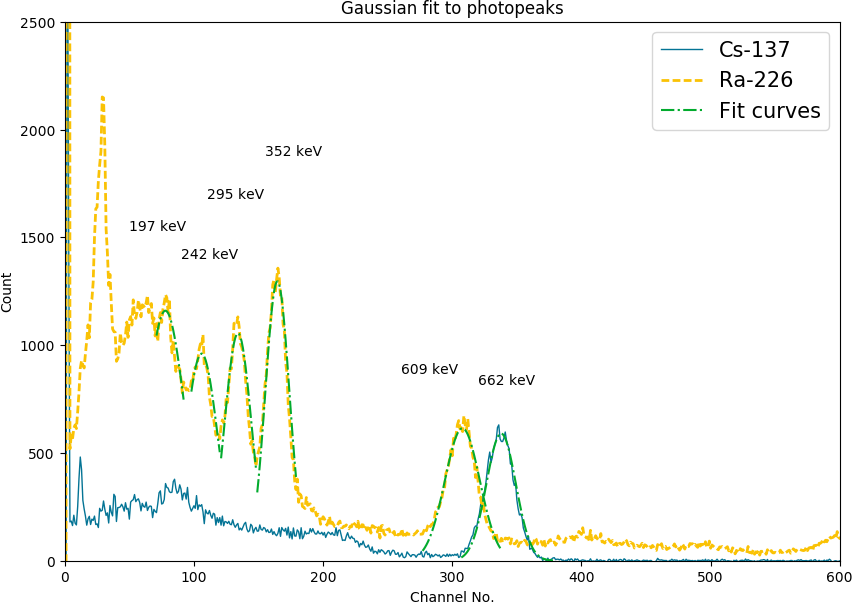
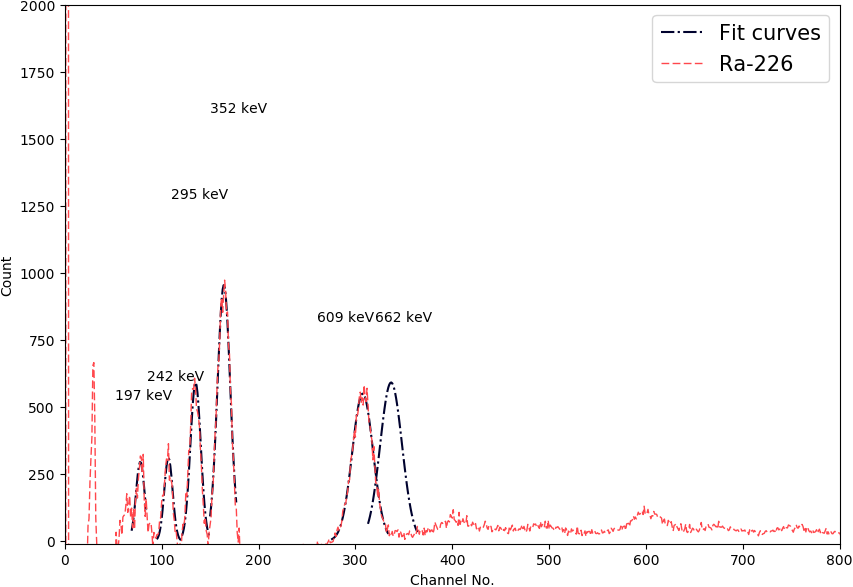
New attenuation fits, chi-squared, modified plots

diff --git a/calibration.py b/calibration.py
@@ -5,6 +5,7 @@ import scipy as sp
 from scipy.optimize import curve_fit
 from scipy.stats import linregress
 
+plt.rcParams.update({'font.size': 15})
 
 N = 1011
 x = np.arange(N)
@@ -68,43 +69,59 @@ ra_params6c, ra_param_covar6c = curve_fit(gaussian, ra_x6, Radium_clean[radium_s
 unknown_params_1, unknown_covar_1 = curve_fit(gaussian, un_x1, Unknown[unknown_1], p0 = [65., 210,1.])
 unknown_params_2, unknown_covar_2 = curve_fit(gaussian, un_x2, Unknown[unknown_2], p0 = [65., 550,1.])
 
+print ra_params6c
+
+###Errors for curve fits
+err_ce1 = np.sqrt(np.diag(abs(ce_param_covar1c)))   #Gives 1 standard deviation error of fit parameters
+err_ra1 = np.sqrt(np.diag(abs(ra_param_covar1c)))
+err_ra2 = np.sqrt(np.diag(abs(ra_param_covar2c)))
+err_ra3 = np.sqrt(np.diag(abs(ra_param_covar3c)))
+err_ra4 = np.sqrt(np.diag(abs(ra_param_covar4c)))
+err_ra5 = np.sqrt(np.diag(abs(ra_param_covar5c)))
+err_ra6 = np.sqrt(np.diag(abs(ra_param_covar6c)))
+
+#print err_ce1
+
+###Create lists of Gaussian fit errors
+Gaussian_fit_errors = [t for t in zip(err_ra6, err_ce1, err_ra1, err_ra2, err_ra3,err_ra4, err_ra5)[:3]]
+
+print Gaussian_fit_errors
 
 #print ra_params6c
-###Errors for curve fits
-perr = np.sqrt(np.diag(abs(ce_param_covar1c)))   #Gives 1 standard deviation error of fit parameters
+
 
 #print perr
 #print ce_params1c
 
 plt.figure(figsize=(10,7))
 plt.plot(x2, gaussian(x2, *ce_params1c), color = '#2c6fbb',  linestyle = '-.', label='Fit curves')
-#plt.plot(ra_x1, gaussian(ra_x1, *ra_params1c), color = '#2c6fbb', linestyle = '-.')
-#plt.plot(ra_x2, gaussian(ra_x2, *ra_params2c), color = '#2c6fbb', linestyle = '-.')
-#plt.plot(ra_x3, gaussian(ra_x3, *ra_params3c), color = '#2c6fbb', linestyle = '-.')
-#plt.plot(ra_x4, gaussian(ra_x4, *ra_params4c), color = '#2c6fbb', linestyle = '-.')
-#plt.plot(ra_x5, gaussian(ra_x5, *ra_params5c), color = '#2c6fbb', linestyle = '-.')
-#plt.plot(ra_x6, gaussian(ra_x6, *ra_params6c), color = '#2c6fbb', linestyle = '-.')
+plt.plot(ra_x1, gaussian(ra_x1, *ra_params1c), color = '#2c6fbb', linestyle = '-.')
+plt.plot(ra_x2, gaussian(ra_x2, *ra_params2c), color = '#2c6fbb', linestyle = '-.')
+plt.plot(ra_x3, gaussian(ra_x3, *ra_params3c), color = '#2c6fbb', linestyle = '-.')
+plt.plot(ra_x4, gaussian(ra_x4, *ra_params4c), color = '#2c6fbb', linestyle = '-.')
+plt.plot(ra_x5, gaussian(ra_x5, *ra_params5c), color = '#2c6fbb', linestyle = '-.')
+plt.plot(ra_x6, gaussian(ra_x6, *ra_params6c), color = '#2c6fbb', linestyle = '-.')
 
 #plt.plot(un_x1, gaussian(un_x1, *unknown_params_1), color = '#02ab2e', linestyle = '-.')
 #plt.plot(un_x2, gaussian(un_x2, *unknown_params_2), color = '#02ab2e', linestyle = '-.')
 #plt.plot(un_x1, Unknown[unknown_1])
-plt.plot(x, Unknown, linewidth=1)
+#plt.plot(x, Unknown, linewidth=1)
 #plt.plot(x, exponential(x, 3500, 0.0145, 0))
-plt.annotate('1120 keV', xy=(535, 140), xytext=(535, 140))
-plt.annotate('662 keV', xy=(320, 820), xytext=(320, 820))
-plt.annotate('609 keV', xy=(260, 820), xytext=(260, 820))
-plt.annotate('352 keV', xy=(130, 1600), xytext=(130, 1600))
-plt.annotate('295 keV', xy=(95, 1150), xytext=(95, 1150))
-plt.annotate('242 keV', xy=(80, 600), xytext=(80, 600))
-plt.annotate('197 keV', xy=(40, 515), xytext=(40, 515))
-#plt.plot(x, Radium_clean, linewidth=1, color = '#fec615', linestyle = '--', label='Ra-226')
-#plt.plot(x, Cesium_clean, linewidth=1, color = '#ff474c', label='Cs-137')
+plt.annotate('662 keV', xy=(320, 920), xytext=(320, 920))
+plt.annotate('1120 keV', xy=(535, 240), xytext=(535, 240))
+plt.annotate('609 keV', xy=(240, 920), xytext=(240, 920))
+plt.annotate('352 keV', xy=(120, 1580), xytext=(120, 1580))
+plt.annotate('295 keV', xy=(80, 1200), xytext=(80, 1200))
+plt.annotate('242 keV', xy=(50, 700), xytext=(50, 700))
+plt.annotate('197 keV', xy=(30, 490), xytext=(30, 490))
+plt.plot(x, Radium_clean, linewidth=1, color = '#fec615', linestyle = '--', label='Ra-226')
+plt.plot(x, Cesium_clean, linewidth=1, color = '#ff474c', label='Cs-137')
 plt.xlim([0,600])
-plt.ylim([0, 3000])
+plt.ylim([0, 2500])
 plt.xlabel("Channel No.")
 plt.ylabel("Count")
 plt.legend(loc=1, prop={'size': 15})
-#plt.savefig("Gaussian_fit_to_photo_peaks.png", bbox_inches="tight", pad_inches=0)
+plt.savefig("Gaussian_fit_to_photo_peaks_w_unknown.png", bbox_inches="tight", pad_inches=0)
 plt.show()
 
 
@@ -115,6 +132,7 @@ energy_calibration1 = [t for t in zip(ra_params6c, ce_params1c, ra_params1c, ra_
 
 ###Create lists of delta_sigmas from gaussian fits
 sigma_variances = [t for t in zip(ra_param_covar6c, ce_param_covar1c, ra_param_covar1c, ra_param_covar2c, ra_param_covar3c, ra_param_covar4c, ra_param_covar5c)[:1]]
+full_width = [15.75*2, 9.84*2, 9.81*2, 6.20*2, 4.95*2, 3.72*2, 2.67*2]
 
 #print sigma_variances[0][1][0]
 #print ra_param_covar1c[0][0]
@@ -122,25 +140,44 @@ sigma_variances = [t for t in zip(ra_param_covar6c, ce_param_covar1c, ra_param_c
 ###Perform curve fitting of energy versus channel no.
 m, b, r_value, p_value, std_err = linregress(energy_calibration1[1], energies)
 
-#print m
-#print b
+print  "The slope is {m}".format(m=m)
+print  "And the y-int is {b}".format(b=b)
+
+
 #Plot linear fit
 x = np.arange(50, 600, 1)
 #plt.figure(figsize=(10,7))
 fig, ax = plt.subplots()
+#ax.scatter(energy_calibration1[1], energies)
+ax.errorbar(energy_calibration1[1], energies, xerr=(full_width), capsize=5, fmt='o', color = '#2c6fbb' )
 ax.plot((x), m*(x) + b)
-ax.scatter(energy_calibration1[1], energies)
+
+###Calculate Chi^2 of linear fit
+def chi_2_linear(x_data, y_data, slope, intercept):
+    numerator = 0
+    denominator = 0
+    sum = 0
+    for i in range( len(y_data)):
+        numerator = ( y_data[i] - (slope*x_data[i]+intercept))**2
+        denominator = y_data[i]
+        sum+= (numerator/denominator)
+    return sum
+
+chi_2_linear_fit = chi_2_linear(energy_calibration1[1], energies, m, b)
+reduced_chi_2 = chi_2_linear_fit/(len(energies)-1)
+
 #plt.annotate(' keV', xy=(580, 1000), xytext=(580, 1000))
 textstr = '\n'.join((
-    r'$m=%.2f  (\sigma_{m}=0.02)$' % (m, ),
-    r'$b=%.0f   (\sigma_{b}=5.9)$' % (b, )))
+    r'$m=%.2f \pm 0.02$' % (m, ),
+    r'$b=%.0f \pm 6$' % (b, ),
+    r'$\tilde{\chi}^2 =%.2f $' % (reduced_chi_2, )))
 props = dict(boxstyle='round', facecolor='gray', alpha=0.5)
 ax.text(0.05, 0.95, textstr, transform=ax.transAxes, fontsize=12, verticalalignment='top', bbox=props)
 #plt.title("Channel No. versus Energy")
 B = [561.24, 313.09, 285.65, 153.45, 125.73, 100.83, 75.85]
-for xy in zip(B, energies):
-    ax.annotate(' %s, %s keV' % xy, xy=xy, textcoords='data')
-plt.xlim([0,700])
+#for xy in zip(B, energies):
+#    ax.annotate(' %s, %s keV' % xy, xy=xy, textcoords='data')
+plt.xlim([0,650])
 plt.ylim([0,1300])
 plt.xlabel("Channel No.")
 plt.ylabel("Energy (keV)")
@@ -152,21 +189,22 @@ Energy2 = unknown_params_2[1]*m+b
 
 #print Energy1, Energy2
 #print unknown_params_1[0], unknown_params_2[0]
-print unknown_params_1[1], unknown_params_2[1]
+print  unknown_params_1[1]
+print  unknown_params_2[1]
 
 ###Create new plot with energy on x axis, using linear fit data
 x = np.linspace(42, 2053.89, 1011)  #Define linear space that incorporates linear fit parameters
 plt.figure(figsize=(10,7))
-plt.plot(x, Unknown_clean, linewidth=1, color = '#ff474c', label='Sample No. 3')
-plt.plot(x, Radium_clean, linewidth=1, color = '#2c6fbb', linestyle = '-.', label='Ra-226')
-plt.plot(x, Cesium_clean, linewidth=1, color = '#fec615', linestyle = '--', label='Cs-137')
-plt.annotate("560keV",  xy=(470, 970))
-plt.annotate("1068keV",  xy=(1000, 350))
-plt.xlim([0,2046])
-plt.ylim([0,1750])
+plt.plot(x, Unknown_clean, linewidth=2, color = '#ff474c', linestyle = '-.', label='Sample No. 3')
+plt.plot(x, Radium_clean, linewidth=1, color = '#2c6fbb', label='Ra-226')
+plt.plot(x, Cesium_clean, linewidth=2, color = '#fec615', linestyle = '--', label='Cs-137')
+plt.annotate("560$\pm$6.0 keV",  xy=(400, 930))
+plt.annotate("1068$\pm$8.7 keV",  xy=(950, 340))
+plt.xlim([0,1500])
+plt.ylim([0,1500])
 #plt.title('Gamma Spectra (Calibrated)')
 plt.xlabel("Energy (keV)")
 plt.ylabel("Count")
 plt.legend(loc=1, prop={'size': 15})
-plt.savefig("gamma_spectra_calibrated.png", bbox_inches="tight", pad_inches=0)
+#plt.savefig("gamma_spectra_calibrated.png", bbox_inches="tight", pad_inches=0)
 plt.show()

diff --git a/absorption_of_radium.py b/absorption_of_radium.py
@@ -7,6 +7,7 @@ from scipy.optimize import curve_fit
 N = 1011
 x0 = np.arange(N)
 x = np.linspace(47, 1887.02, 1011)  #Define Energy space that incorporates linear fit parameters
+plt.rcParams.update({'font.size': 15})
 
 
 ###Define an exponential to fit the background
@@ -14,27 +15,35 @@ def exponential(x, A, b):
     return A*np.exp(-x*b)
 
 ###Subtract global and local background from Ra-226 attenuated and unattenuated spectra
-Radium_1mm_lead = data_arrays_take_2.sp3-data_arrays_take_2.sp0 - exponential(x0, 3500, .0145) -50
-Radium = data_arrays_take_2.sp2-data_arrays_take_2.sp0 - exponential(x0, 3500, .0145) -50
-Radium_7mm_lead = data_arrays_take_2.sp3_1-data_arrays_take_2.sp0 - exponential(x0, 3500, .0145) -50
+Radium_1mm_lead = data_arrays_take_2.sp3-data_arrays_take_2.sp0
+Radium = data_arrays_take_2.sp2-data_arrays_take_2.sp0
+Radium_7mm_lead = data_arrays_take_2.sp3_1-data_arrays_take_2.sp0
 
-peak = slice(265, 330, 1)
-x1 = np.linspace(265, 329, 65)
+Radium_1mm_lead_clean = Radium_1mm_lead - exponential(x0, 3500, .018) -30
+Radium_clean = Radium  - exponential(x0, 3500, .018) -20
+Radium_7mm_lead_clean = Radium_7mm_lead - exponential(x0, 3500, .018) -30
 
+
+
+###Create data slices for curve fitting and error analysis
+peak = slice(280, 330, 1)
+x1 = np.linspace(280, 330, 50)
+
+Radium_cut = Radium_clean[peak]
+Radium_cut_1mm = Radium_1mm_lead_clean[peak]
+Radium_cut_7mm = Radium_7mm_lead_clean[peak]
+
+#print Radium_cut_7mm
 
 
 ###Define a gaussian curve
 def gaussian(x, sigma, X, A):
     return A*np.exp( (-(x-X)**2)/(2*sigma**2))
 
-
-
-
-
 ###Perform fit of 609 keV peak
-ra_params1, ra_param_covar1 = curve_fit(gaussian, x1, Radium[peak], p0 = [90, 310.,1.])
-ra_params2, ra_param_covar2 = curve_fit(gaussian, x1, Radium_1mm_lead[peak], p0 = [100, 310.,1.])
-ra_params3, ra_param_covar3 = curve_fit(gaussian, x1, Radium_7mm_lead[peak], p0 = [100, 310.,1.])
+ra_params1, ra_param_covar1 = curve_fit(gaussian, x1, Radium_clean[peak], p0 = [90, 310.,1.])
+ra_params2, ra_param_covar2 = curve_fit(gaussian, x1, Radium_1mm_lead_clean[peak], p0 = [100, 310.,1.])
+ra_params3, ra_param_covar3 = curve_fit(gaussian, x1, Radium_7mm_lead_clean[peak], p0 = [100, 310.,1.])
 
 #print ra_params1
 #print ra_params2
@@ -49,24 +58,62 @@ for i in range(peak.start, peak.stop + 1):
     sum2 += gaussian(x0[i], *ra_params2)   #1mm
     sum3 += gaussian(x0[i], *ra_params3)   #7mm
 
-#print sum1, sum2, sum3
+print sum1, sum2, sum3
 
 ###Errors for curve fits
-perr = np.sqrt(np.diag(abs(ra_params3)))   #Gives 1 standard deviation error of fit parameters
+perr_1 = np.sqrt(np.diag(abs(ra_params1)))   #Gives 1 standard deviation error of fit parameters
+perr_2 = np.sqrt(np.diag(abs(ra_params2)))
+perr_3 = np.sqrt(np.diag(abs(ra_params3)))
+print perr_1, perr_2, perr_3
+print ra_params1, ra_params2, ra_params3
 
 #print perr
 
 ###Calculate Chi^2 of fits
+
 numerator = 0
 denominator = 0
 sum = 0
-for i in range(peak.start, peak.stop + 1):
-    numerator = ( Radium[i] - gaussian(x0[i], *ra_params2) )**2
-    denominator = gaussian(x0[i], *ra_params2)
+for i in range( len(Radium_cut_7mm) ):
+    numerator = ( Radium_cut_7mm[i] - gaussian(x1[i], *ra_params3))**2
+    denominator = gaussian(x1[i], *ra_params3 )
     sum+= (numerator/denominator)
-#print "Chi^2 = {sum}".format(sum=sum)
 
 
+Chi_2_7mm = sum
+reduced_Chi_2_7mm = sum/(len(Radium_cut_7mm)-1)
+#print "Chi^2 7mm = {Chi_2_7mm}".format(Chi_2_7mm=Chi_2_7mm)
+#print "Reduced Chi^2 7mm = {reduced_Chi_2_7mm}".format(reduced_Chi_2_7mm=reduced_Chi_2_7mm)
+
+
+
+numerator = 0
+denominator = 0
+sum = 0
+for i in range( len(Radium_cut) ):
+    numerator = ( Radium_cut[i] - gaussian(x1[i], *ra_params1))**2
+    denominator = gaussian(x1[i], *ra_params1 )
+    sum+= (numerator/denominator)
+
+
+
+Chi_2_unattenuated = sum
+reduced_Chi_2_unattenuated = sum/(len(Radium_cut)-1)
+#print "Chi^2 unattenuated = {Chi_2_unattenuated}".format(Chi_2_unattenuated=Chi_2_unattenuated)
+#print "Reduced Chi^2 unattenuated = {reduced_Chi_2_unattenuated}".format(reduced_Chi_2_unattenuated=reduced_Chi_2_unattenuated)
+
+numerator = 0
+denominator = 0
+sum = 0
+for i in range( len(Radium_cut_1mm) ):
+    numerator = ( Radium_cut_1mm[i] - gaussian(x1[i], *ra_params2))**2
+    denominator = gaussian(x1[i], *ra_params2 )
+    sum+= (numerator/denominator)
+
+Chi_2_1mm = sum
+reduced_Chi_2_1mm = sum/(len(Radium_cut_1mm)-1)
+#print "Chi^2 1mm = {Chi_2_1mm}".format(Chi_2_1mm=Chi_2_1mm)
+#print "Reduced Chi^2 1mm = {reduced_Chi_2_1mm}".format(reduced_Chi_2_1mm=reduced_Chi_2_1mm)
 
 
 ###Calculate uncertainty of counts
@@ -74,8 +121,10 @@ def count_uncert(sigma, A, dsigma, dA):
     delta_c = np.sqrt(  np.pi*2*(sigma**2)*(dA)**2     +  2*np.pi*(A*dsigma)**2    )
     return delta_c
 
-count_uncertainty = count_uncert(ra_params3[0], ra_params3[1], perr[0,0], perr[1,1])
-#print count_uncertainty
+count_uncertainty_1 = count_uncert( abs(ra_params1[0]), ra_params1[1], perr_1[0,0], perr_1[1,1])
+count_uncertainty_2 = count_uncert( abs(ra_params2[0]), ra_params2[1], perr_2[0,0], perr_2[1,1])
+count_uncertainty_3 = count_uncert( abs(ra_params3[0]), ra_params3[1], perr_3[0,0], perr_3[1,1])
+print count_uncertainty_1, count_uncertainty_2, count_uncertainty_3
 
 #Calculate the uncertainty in lead absorption coefficient
 
@@ -83,23 +132,24 @@ def del_mu(I, I0, x, dI, dI0, dx):
     np.sqrt( (dI0/(x*I0))**2  + (dI/(x*I))**2   + (( np.log(I0/I) * dx)/(x**2))**2    )
 
 delta_mu_1_25mm = del_mu(sum2, sum1, 1.25, 2570, 2578, 0.5)
-print delta_mu_1_25mm
+#print delta_mu_1_25mm
 
 
 #Plot 609keV photopeaks with fits and count no.
 plt.figure(figsize=(10,7))
-plt.plot(x, Radium, label="Unattenuated", color = '#ff474c')
+#plt.plot(x, exponential(x0, 3500, .018) + 40)
+plt.plot(x, Radium_clean, label="Unattenuated, \tilde{\chi}^2 = 5.1", color = '#ff474c')
 plt.plot(x, gaussian(x0, *ra_params1), color = '#ff474c', linestyle = '-.')
-plt.plot(x, Radium_1mm_lead, color = '#2c6fbb', label="1.25 mm attenuator" )
+plt.plot(x, Radium_1mm_lead_clean, color = '#2c6fbb', label="1.25 mm attenuator, $\tilde{\chi} = 4.0" )
 plt.plot(x, gaussian(x0,  *ra_params2), color = '#2c6fbb', linestyle = '-.')
-plt.plot(x, Radium_7mm_lead, color = '#fec615', label="7 mm attenuator")
+plt.plot(x, Radium_7mm_lead_clean, color = '#fec615', label="7 mm attenuator, \tilde{\chi}^2 = 2.3")
 plt.plot(x, gaussian(x0,  *ra_params3), color = '#fec615', linestyle = '-.')
-plt.annotate('14,697 ', xy=(609, 490), xytext=(609, 490))
-plt.annotate('12,332', xy=(609, 390), xytext=(609, 390))
-plt.annotate('5,966', xy=(609, 190), xytext=(609, 190))
+plt.annotate('17,700 ', xy=(609, 490), xytext=(609, 490))
+plt.annotate('14,800', xy=(609, 390), xytext=(609, 390))
+plt.annotate('8,400', xy=(609, 190), xytext=(609, 190))
 #plt.xlim([0, 1000])
-plt.xlim([550,675])
-plt.ylim([0,800])
+plt.xlim([560,660])
+plt.ylim([-10,800])
 #plt.title("Lead attenuation of Ra-226 609 keV photopeak")
 plt.xlabel("Energy (keV)")
 plt.ylabel("Count")
